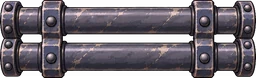
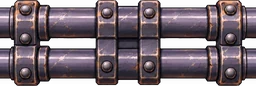
Modo Solo: fundo da base militar em volta da arena + decoracoes novas
Fundo da pagina na fase do quartel (andaimes, holofotes, fumaca), com titulo, placar
e legenda legiveis por cima. Rachadura roxa, placa e ventilacao novas, canos que
emendam, e 4a variacao de caixote (reforcado e quebrado).

diff --git a/src/solo/engine/fx.js b/src/solo/engine/fx.js
@@ -189,9 +189,9 @@ export function drawAmbient(ctx, time) {
       }
     } else if (d.type === 'sign') {
       const img = decoSprite('sign')
-      if (img) { const w = 0.56, h = w * img.naturalHeight / img.naturalWidth; ctx.drawImage(img, cx - w / 2, cy - h / 2 - 0.06, w, h) }
+      if (img) { const w = 0.62, h = w * img.naturalHeight / img.naturalWidth; ctx.drawImage(img, cx - w / 2, cy - h / 2 - 0.06, w, h) }
     } else if (d.type === 'vent' && decoSprite('vent')) {
-      const img = decoSprite('vent'), w = 0.64, h = w * img.naturalHeight / img.naturalWidth
+      const img = decoSprite('vent'), w = 0.68, h = w * img.naturalHeight / img.naturalWidth
       ctx.drawImage(img, cx - w / 2, cy - h / 2 - 0.06, w, h)
     } else if (d.type === 'vent') {
       ctx.fillStyle = '#1d2128'
@@ -211,8 +211,8 @@ export function drawAmbient(ctx, time) {
       ctx.fillRect(cx - 0.6, cy - 0.6, 1.2, 1.2)
       const img = decoSprite('crack')
       if (img) {
-        const w = 0.6, h = w * img.naturalHeight / img.naturalWidth
-        ctx.drawImage(img, cx - w / 2, cy - h / 2, w, h)
+        const w = 0.74, h = w * img.naturalHeight / img.naturalWidth
+        ctx.drawImage(img, cx - w / 2, cy - h / 2 - 0.05, w, h)
         continue
       }
       ctx.strokeStyle = `rgba(230, 200, 255, ${0.6 + 0.4 * glow})`

diff --git a/src/solo/SoloGame.css b/src/solo/SoloGame.css
@@ -295,3 +295,21 @@
 }
 /* todos os inimigos derrotados: contador fica verde */
 .solo-hud-done { color: #8ff0a8; }
+
+/* fundo da página na fase do quartel: a base militar em volta da arena */
+.solo-page.is-military {
+  background:
+    radial-gradient(ellipse at center, rgba(10, 8, 18, 0) 45%, rgba(10, 8, 18, 0.55) 100%),
+    url('/solo/bg-military.webp') center 58% / cover no-repeat,
+    #0d0b14;
+}
+/* com o fundo cheio de detalhes, título e legenda ganham um fundinho escuro pra dar pra ler */
+.solo-page.is-military .solo-top h1,
+.solo-page.is-military .solo-back { text-shadow: 0 2px 10px #000, 0 0 3px #000; }
+.solo-page.is-military .solo-keys {
+  background: rgba(10, 8, 18, 0.78);
+  border: 1px solid rgba(201, 162, 74, 0.35);
+  border-radius: 10px;
+  padding: 6px 16px;
+}
+.solo-page.is-military .solo-hud { background: rgba(14, 10, 26, 0.88); }

diff --git a/src/solo/SoloGame.jsx b/src/solo/SoloGame.jsx
@@ -47,6 +47,7 @@ function hudOf(s) {
     level: s.levelIndex + 1,
     levelName: levelInfo(s).name,
     tagline: levelInfo(s).tagline ?? '',
+    tileset: s.tileset,
     lives: s.lives,
     enemies: enemiesLeft(s),
     door: s.door.revealed ? (doorOpen(s) ? 'open' : 'locked') : null,
@@ -189,7 +190,7 @@ export default function SoloGame() {
   const time = hud ? `${Math.floor(hud.secs / 60)}:${String(hud.secs % 60).padStart(2, '0')}` : '0:00'
 
   return (
-    <div className="solo-page">
+    <div className={`solo-page is-${hud?.tileset ?? 'temple'}`}>
       <SoundToggle className="sound-fixed" />
       <header className="solo-top">
         <a className="solo-back" href="/play">← Back</a>

diff --git a/src/solo/engine/render.js b/src/solo/engine/render.js
@@ -78,7 +78,7 @@ export function draw(ctx, s, tilePx, dpr) {
         if (t === BLOCK) {
           const burn = s.burning.find((b) => b.x === x && b.y === y)
           // variação do caixote sorteada pela posição (a comum aparece mais)
-          const variant = [0, 0, 0, 1, 2][(x * 7 + y * 11) % 5]
+          const variant = [0, 0, 0, 1, 2, 3][(x * 7 + y * 11) % 6]
           drawBlock(ctx, x, y, burn ? 1 - burn.t / BURN_TIME : 0, tileSprite(s.tileset, 'block', variant))
         }
       }

diff --git a/src/solo/engine/sprites.js b/src/solo/engine/sprites.js
@@ -34,7 +34,7 @@ const TILESETS = {
   military: {
     floor: '/solo/military-floor.webp',
     wall: '/solo/military-wall.webp',
-    block: ['/solo/military-crate.webp', '/solo/military-crate-2.webp', '/solo/military-crate-3.webp'],
+    block: ['/solo/military-crate.webp', '/solo/military-crate-2.webp', '/solo/military-crate-3.webp', '/solo/military-crate-4.webp'],
   },
 }
 
